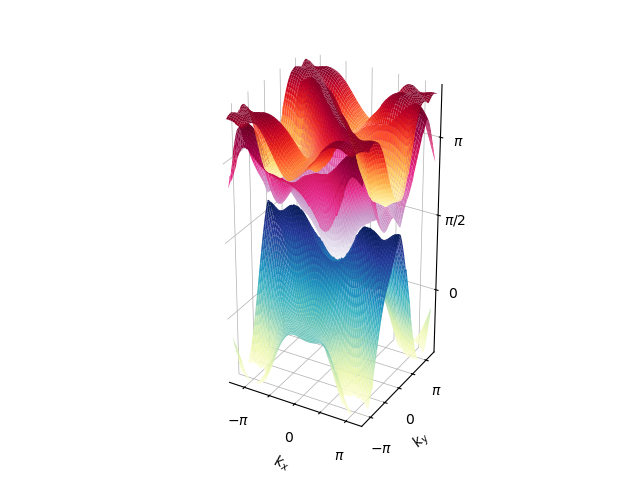
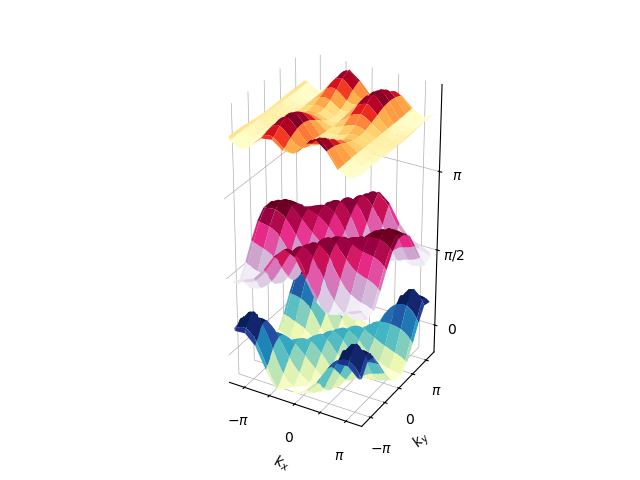
Phase bands

Changed region(s): [[0.3438, 0.125, 0.7188, 0.8438], [0.6875, 0.4375, 0.7188, 0.4688], [0.6875, 0.3438, 0.7188, 0.375]]

diff --git a/ADSp2_01_deform.py b/ADSp2_01_deform.py
@@ -5,19 +5,23 @@ from matplotlib import cm
 
 from tight_binding.bandstructure import plot_bandstructure2D, sort_energy_grid
 from tight_binding.topology import gauge_fix_grid
+from tight_binding.utilities import compute_reciprocal_lattice_vectors_2D
 
 # parameters
-s = 0.35
-num_points = 301
+num_points = 100
+T_cut = 0.83
 T = 1
 d1 = -2*np.pi/(3*T)
 d2 = 0
 d3 = 2*np.pi/(3*T)
 N = 1
-num_steps = 100
-lowest_quasi_energy = -np.pi/4
+num_steps = 1000
+lowest_quasi_energy = -np.pi
 a1 = np.array([1,0])
 a2 = np.array([0,1])
+r=1
+c=1
+discontinuity_threshold = 0
 
 J1A = np.load('hoppings/J1A.npy')
 J1B = np.load('hoppings/J1B.npy')
@@ -28,18 +32,15 @@ J3B = np.load('hoppings/J3B.npy')
 J4A = np.load('hoppings/J4A.npy')
 J4B = np.load('hoppings/J4B.npy')
 
-JA0 = np.zeros((2*N+1,2*N+1,3,3),dtype='complex')
-JA0[N,N] = -np.diag([d1,d2,d3])
-
-def J(t,s):
+def J(t):
     if (t%T) < T/4:
-        hoppings = JA0 + (J1A - JA0 + J1B * 8*t/T)*s
+        hoppings = (J1A + J1B * 8*t/T)
     elif (t%T) <T/2:
-        hoppings = JA0 + (J2A - JA0 + J2B * 8*t/T)*s
+        hoppings = (J2A + J2B * 8*t/T)
     elif (t%T) < 3*T/4:
-        hoppings = JA0 + (J3A - JA0 + J3B * 8*t/T)*s
+        hoppings = (J3A + J3B * 8*t/T)
     else:
-        hoppings = JA0 + (J4A - JA0 + J4B * 8*t/T)*s
+        hoppings = (J4A + J4B * 8*t/T)
     return hoppings
 
 # checking some properties
@@ -47,19 +48,21 @@ def J(t,s):
 diff = 0
 for i in range(3):
     for j in range(3):
-        diff += np.sum(np.abs(J(0.9,s)[i,j]-np.conjugate(np.transpose(J(0.9,s)[-i-1,-j-1]))))
+        diff += np.sum(np.abs(J(0.9)[i,j]-np.conjugate(np.transpose(J(0.9)[-i-1,-j-1]))))
 print(diff)
 
+#reality
 diff = 0
 for i in range(3):
     for j in range(3):
-        diff += np.sum(np.abs(J(0.9,s)[i,j]-np.conjugate(J(0.9,s)[-i-1,-j-1])))
+        diff += np.sum(np.abs(J(0.9)[i,j]-np.conjugate(J(0.9)[-i-1,-j-1])))
 print(diff)
 
+#C2 symmetry
 diff = 0
 for i in range(3):
     for j in range(3):
-        diff += np.sum(np.abs(J(0.9,s)[i,j]-J(0.9,s)[-i-1,-j-1]))
+        diff += np.sum(np.abs(J(0.9)[i,j]-J(0.9)[-i-1,-j-1]))
 print(diff)
 
 
@@ -84,7 +87,7 @@ k2 = np.repeat(k2,3,3)
 print('Calculating the hamiltonian backwards...')
 hoppings = np.zeros((num_steps,2*N+1,2*N+1,3,3),dtype='complex')
 for t in range(num_steps):
-    hoppings[t] = J(t/num_steps*T,s)
+    hoppings[t] = J(t/num_steps*T_cut)
 
 hoppings = hoppings[:,np.newaxis,np.newaxis,:,:,:,:]
 hoppings = np.repeat(hoppings,num_points,1)
@@ -105,7 +108,7 @@ U = U[np.newaxis,np.newaxis,:,:]
 U = np.repeat(U,num_points,0)
 U = np.repeat(U,num_points,1)
 
-dt = T / num_steps
+dt = T_cut / num_steps
 for t in range(num_steps):
     U = np.matmul(la.expm(-1j*hamiltonian[t]*dt),U)
 
@@ -193,19 +196,82 @@ print('Zak phase in the y direction along the edge: {zak_phase}'.format(zak_phas
 
 # plotting
 print('Plotting...')
-plot_bandstructure2D(energies,a1,a2,'test.png',lowest_quasi_energy=lowest_quasi_energy)
+# Need to periodically extend the energy array to span the whole region
+b_1, b_2 = compute_reciprocal_lattice_vectors_2D(a1, a2)
+span = False
+copies = 0
+while not span:
+    copies += 1
+    alpha = np.linspace(-copies,copies,2*copies*num_points,endpoint=False)
+    alpha_1, alpha_2 = np.meshgrid(alpha, alpha, indexing = 'ij')
+    kx = alpha_1 * b_1[0] + alpha_2 * b_2[0]
+    ky = alpha_1 * b_1[1] + alpha_2 * b_2[1]
+    span = ((np.min(kx) < -1.25*np.pi) and (np.max(kx) > 1.25*np.pi) 
+                and (np.min(ky) < -1.25*np.pi) and (np.max(ky) > 1.25*np.pi))
+    
+# Specifying which indices in the original array correspond to indices in 
+# the extended array
+i = ((alpha_1%1) * num_points).astype(int)
+j = ((alpha_2%1) * num_points).astype(int)
+energy_grid_extended = energies[i,j]
+E = np.transpose(energy_grid_extended, (2,0,1))
 
-blochvectors = gauge_fix_grid(blochvectors)
-kx = np.linspace(0,1,num_points,False)
-ky = np.linspace(0,1,num_points,False)
-kx,ky = np.meshgrid(kx,ky,indexing='ij')
+# Masking the data we do not want to plot
+E[:, (kx>1.25*np.pi) | (kx<-1.25*np.pi) | (ky>1.25*np.pi) | (ky<-1.25*np.pi)] = np.nan
 
-fig, ax = plt.subplots(subplot_kw={"projection": "3d"})
-surf = ax.plot_surface(kx, ky, blochvectors[:,:,0,1], cmap=cm.YlGnBu,
-                            linewidth=0)
+# Dealing with discontinuities
+top = lowest_quasi_energy + 2 * np.pi
+bottom = lowest_quasi_energy
+for band in range(E.shape[0]):
+    distance_to_top = np.abs(E[band] - top)
+    distance_to_bottom = np.abs(E[band] - bottom)
+    
+    threshold = discontinuity_threshold * 2 * np.pi
+    discontinuity_mask = distance_to_top < threshold
+    E[band] = np.where(discontinuity_mask, np.nan, E[band])
+    discontinuity_mask = distance_to_bottom < threshold
+    E[band] = np.where(discontinuity_mask, np.nan, E[band])
+
+# Plotting
+fig = plt.figure()
+ax = fig.add_subplot(111, projection='3d')
+surf1 = ax.plot_surface(kx, ky, E[0], cmap=cm.YlGnBu, edgecolor='darkblue',
+                        linewidth=0, rstride=r, cstride=c)
+surf2 = ax.plot_surface(kx, ky, E[1], cmap=cm.PuRd, edgecolor='purple',
+                        linewidth=0, rstride=r, cstride=c)
+surf3 = ax.plot_surface(kx, ky, E[2], cmap=cm.YlOrRd, edgecolor='darkred',
+                        linewidth=0, rstride=r, cstride=c)
+    
+# Get rid of colored axes planes
+# First remove fill
+ax.xaxis.pane.fill = False
+ax.yaxis.pane.fill = False
+ax.zaxis.pane.fill = False
+
+# Now set color to white (or whatever is "invisible")
+ax.xaxis.pane.set_edgecolor('w')
+ax.yaxis.pane.set_edgecolor('w')
+ax.zaxis.pane.set_edgecolor('w')
+
+ax.xaxis._axinfo["grid"].update({"linewidth":0.5})
+ax.yaxis._axinfo["grid"].update({"linewidth":0.5})
+ax.zaxis._axinfo["grid"].update({"linewidth":0.5})
+
+tick_values = np.linspace(-4,4,9) * np.pi / 2
+tick_labels = ['$-2\pi$', '', '$-\pi$', '', '0', '', '$\pi$', '', '$2\pi$']
+ax.set_xticks(tick_values)
+ax.set_xticklabels(tick_labels)
+ax.set_yticks(tick_values)
+ax.set_yticklabels(tick_labels)
+ztick_labels = ['$-2\pi$', '$-3\pi/2$', '$-\pi$', '$-\pi/2$', '0', 
+                '$\pi/2$', '$\pi$', '$3\pi/2$', '$2\pi$']
+ax.set_zticks(tick_values)
+ax.set_zticklabels(ztick_labels)
+ax.set_zlim(lowest_quasi_energy, np.pi)
+ax.set_xlim(-1.25*np.pi,1.25*np.pi)
+ax.set_ylim(-1.25*np.pi,1.25*np.pi)
 ax.set_xlabel('$k_x$')
 ax.set_ylabel('$k_y$')
-ax.grid(False)
 ax.set_box_aspect([1, 1, 2])
 plt.show()
 plt.close()
